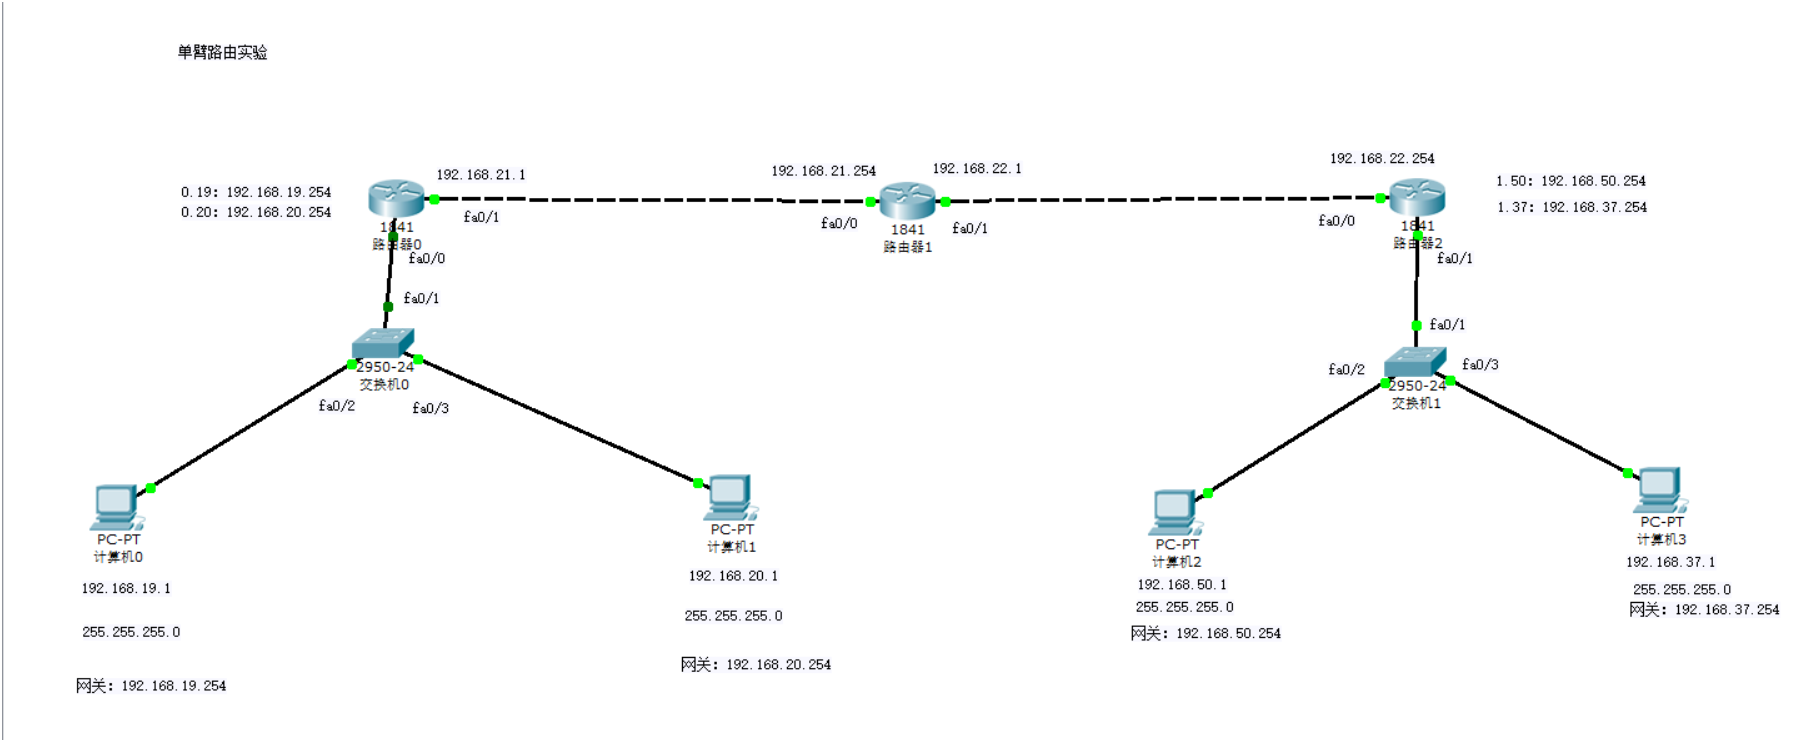
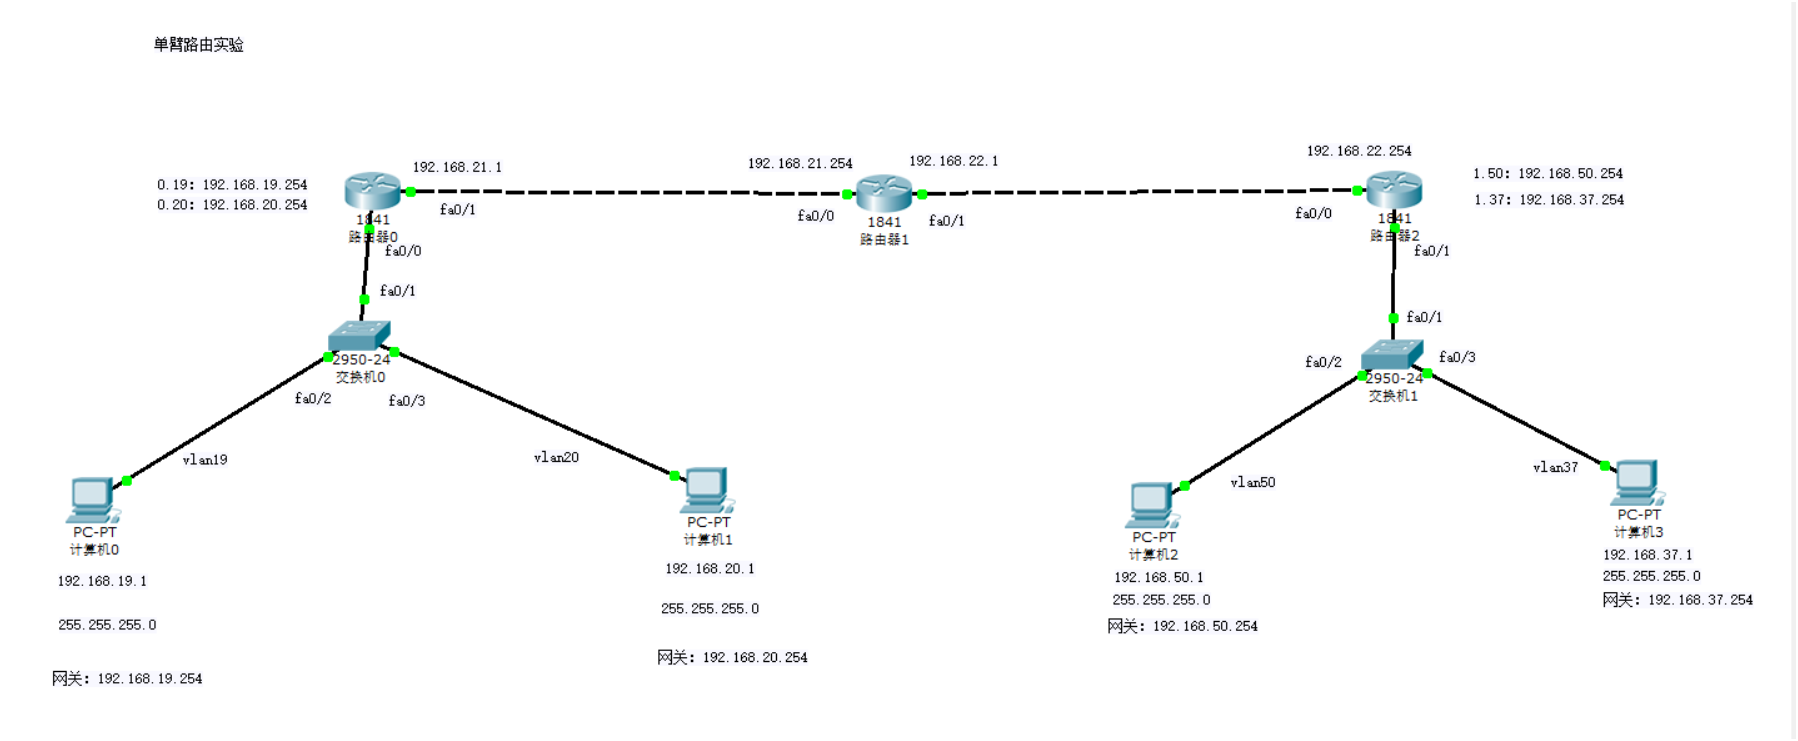
更新实验文档和配置文件

diff --git a/实验/计网考试宝典.md b/实验/计网考试宝典.md
@@ -363,26 +363,26 @@ DNS
 enable
 configure terminal
 
-ip dhcp pool zs
-network 192.168.1.0 255.255.255.0
-default-router 192.168.1.254
-ip dhcp excluded-address 192.168.1.254
+ip dhcp pool yyk
+network 192.168.37.0 255.255.255.0
+default-router 192.168.37.254
+ip dhcp excluded-address 192.168.37.254
 exit
 ```
 
 说明：
 
 ```text
-ip dhcp pool zs
-表示创建名为 zs 的地址池。
+ip dhcp pool yyk
+表示创建名为 yyk 的地址池。
 
-network 192.168.1.0 255.255.255.0
+network 192.168.37.0 255.255.255.0
 表示可分配地址所在网段。
 
-default-router 192.168.1.254
+default-router 192.168.37.254
 表示给 PC 下发默认网关。
 
-ip dhcp excluded-address 192.168.1.254
+ip dhcp excluded-address 192.168.37.254
 表示排除网关地址，避免分配给 PC。
 ```
 